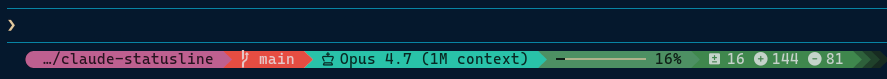
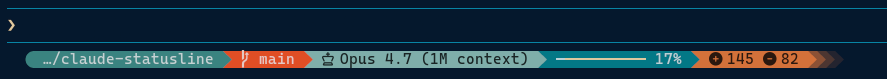
Replace retro-82 statusline preview
The previous capture still showed the osaka-jade palette because the
theme switch hadn't been triggered before the screenshot. Recaptured
under retro-82 and corrected the grim path in images/README.md to
write directly into images/.

Changed region(s): [[0.0304, 0.6329, 1.0, 0.8608]]

diff --git a/images/README.md b/images/README.md
@@ -9,5 +9,5 @@ slurp ~/.statusline-region
 Generate the screenshot:
 
 ```sh
-grim -g "$(cat ~/.statusline-region)" [theme]-statusline.png
+grim -g "$(cat ~/.statusline-region)" ./images/[theme]-statusline.png
 ```
